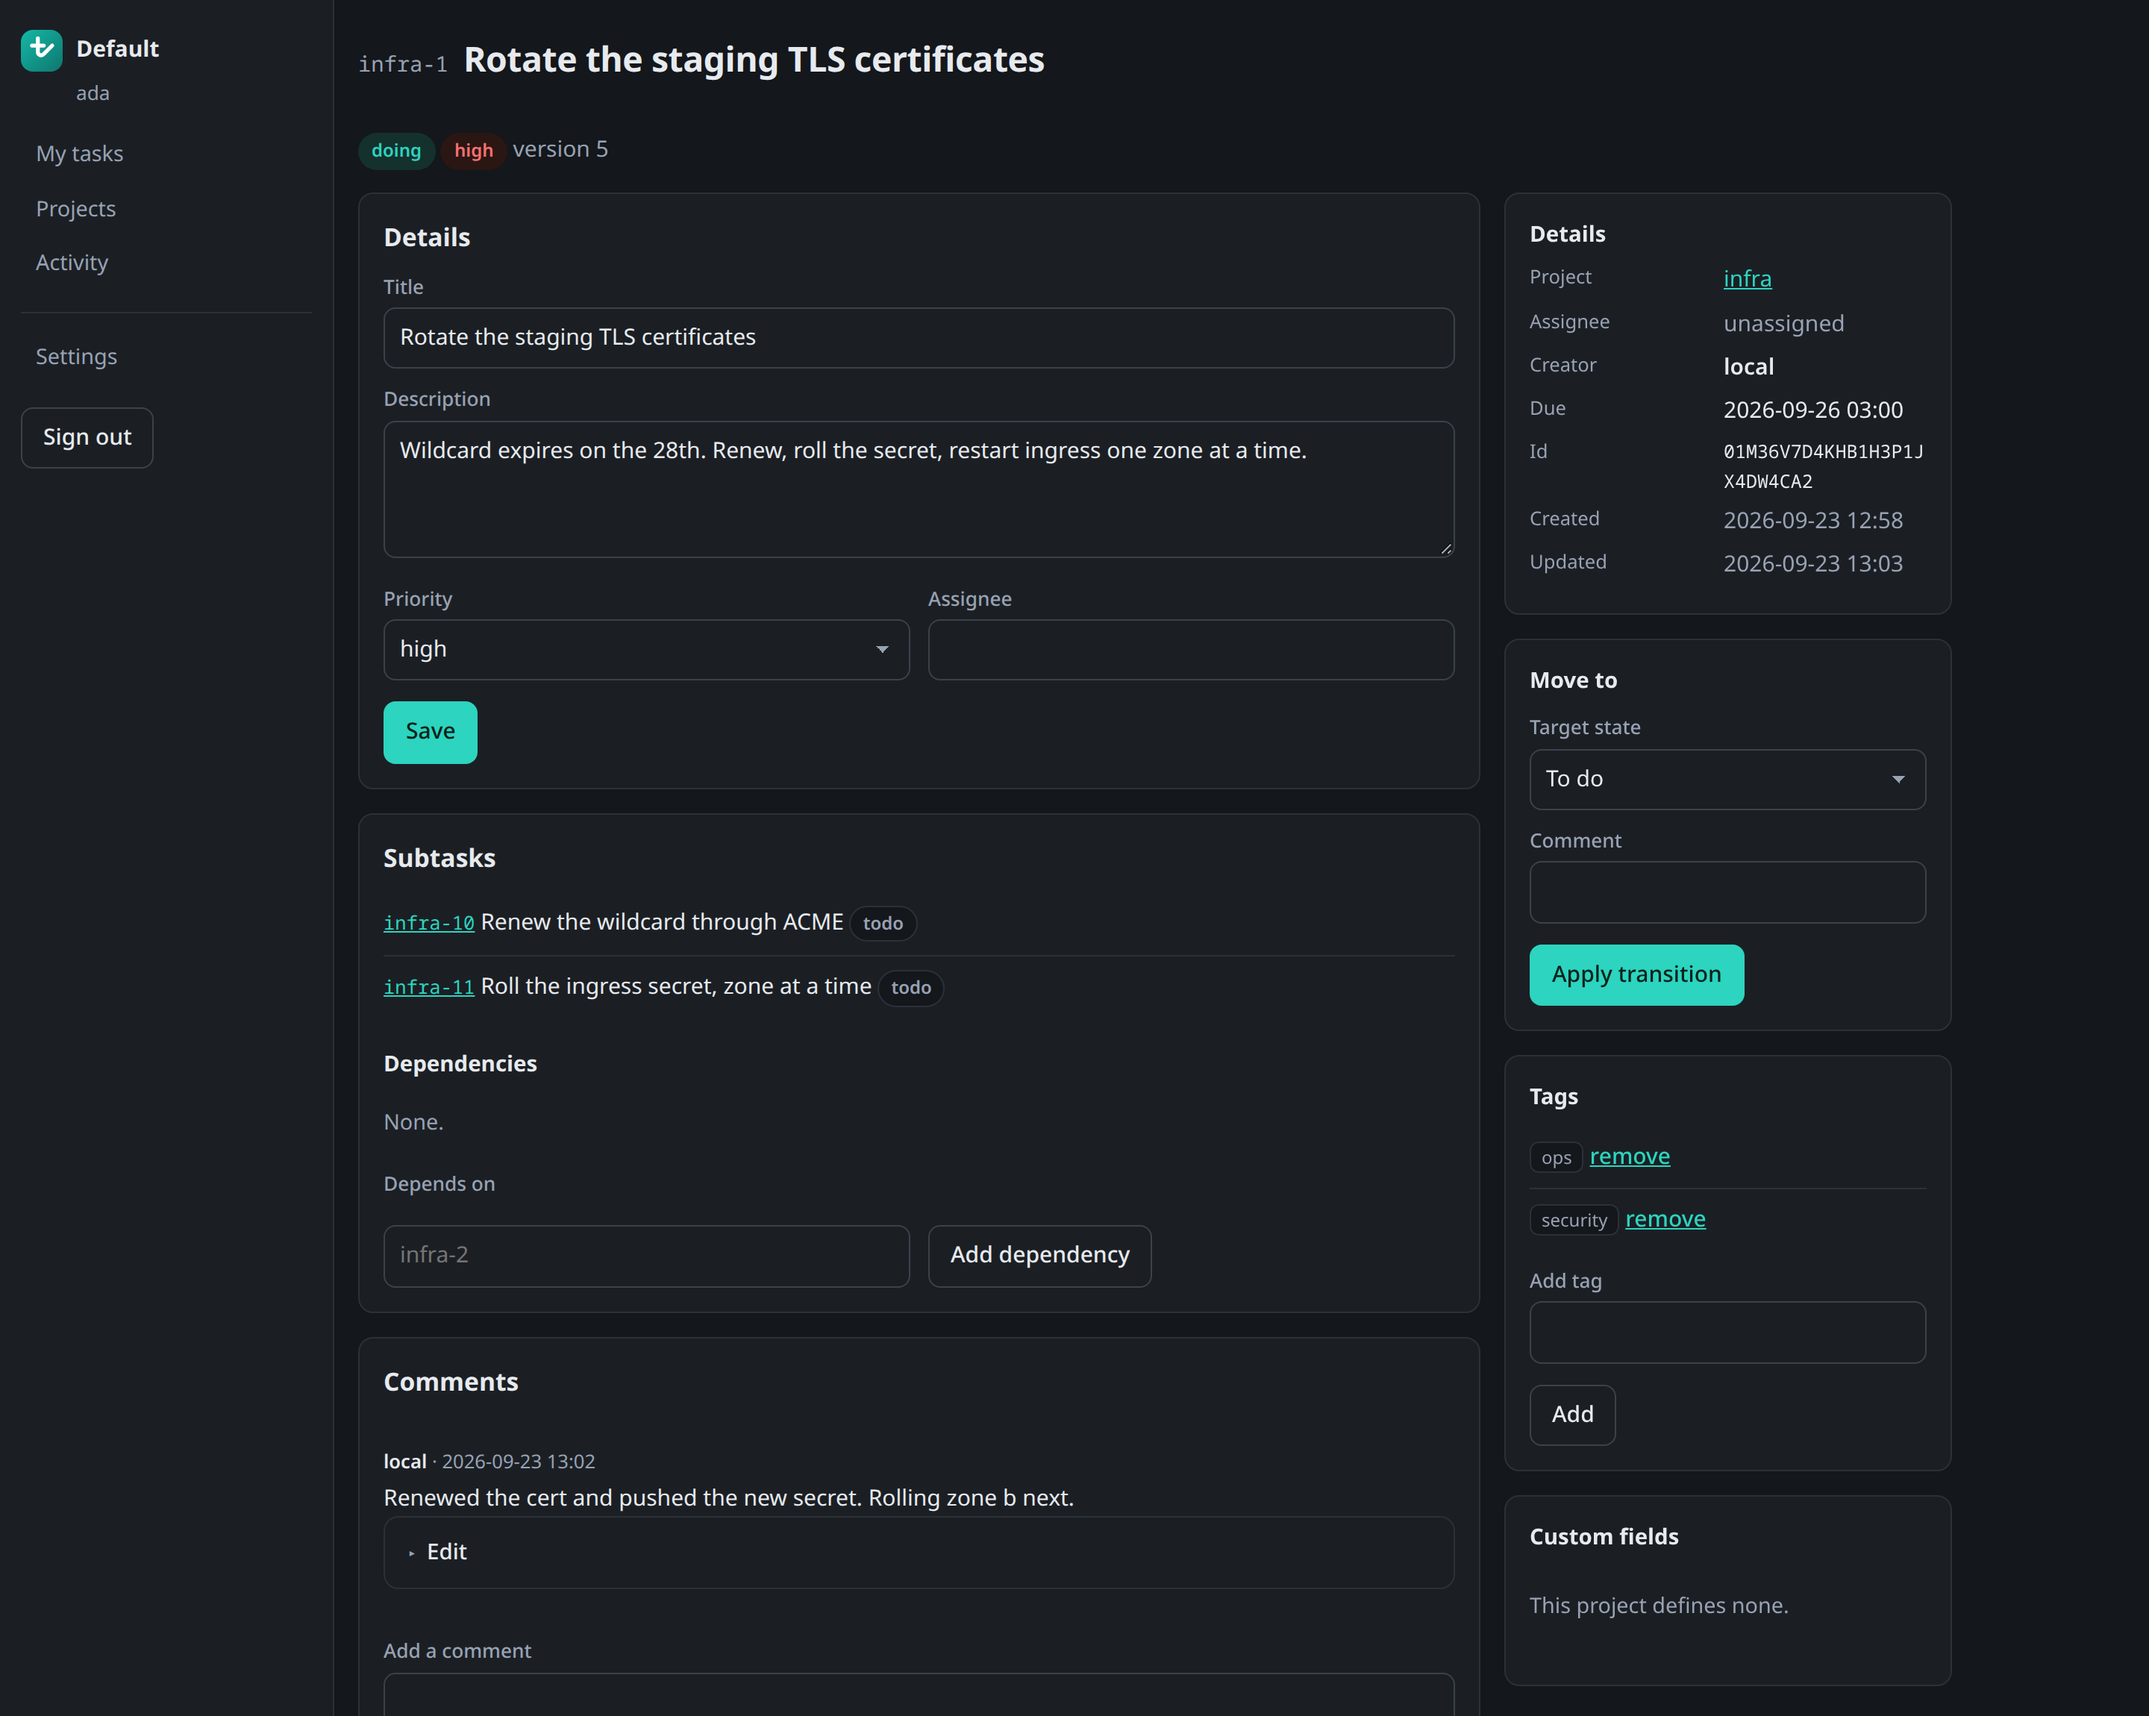
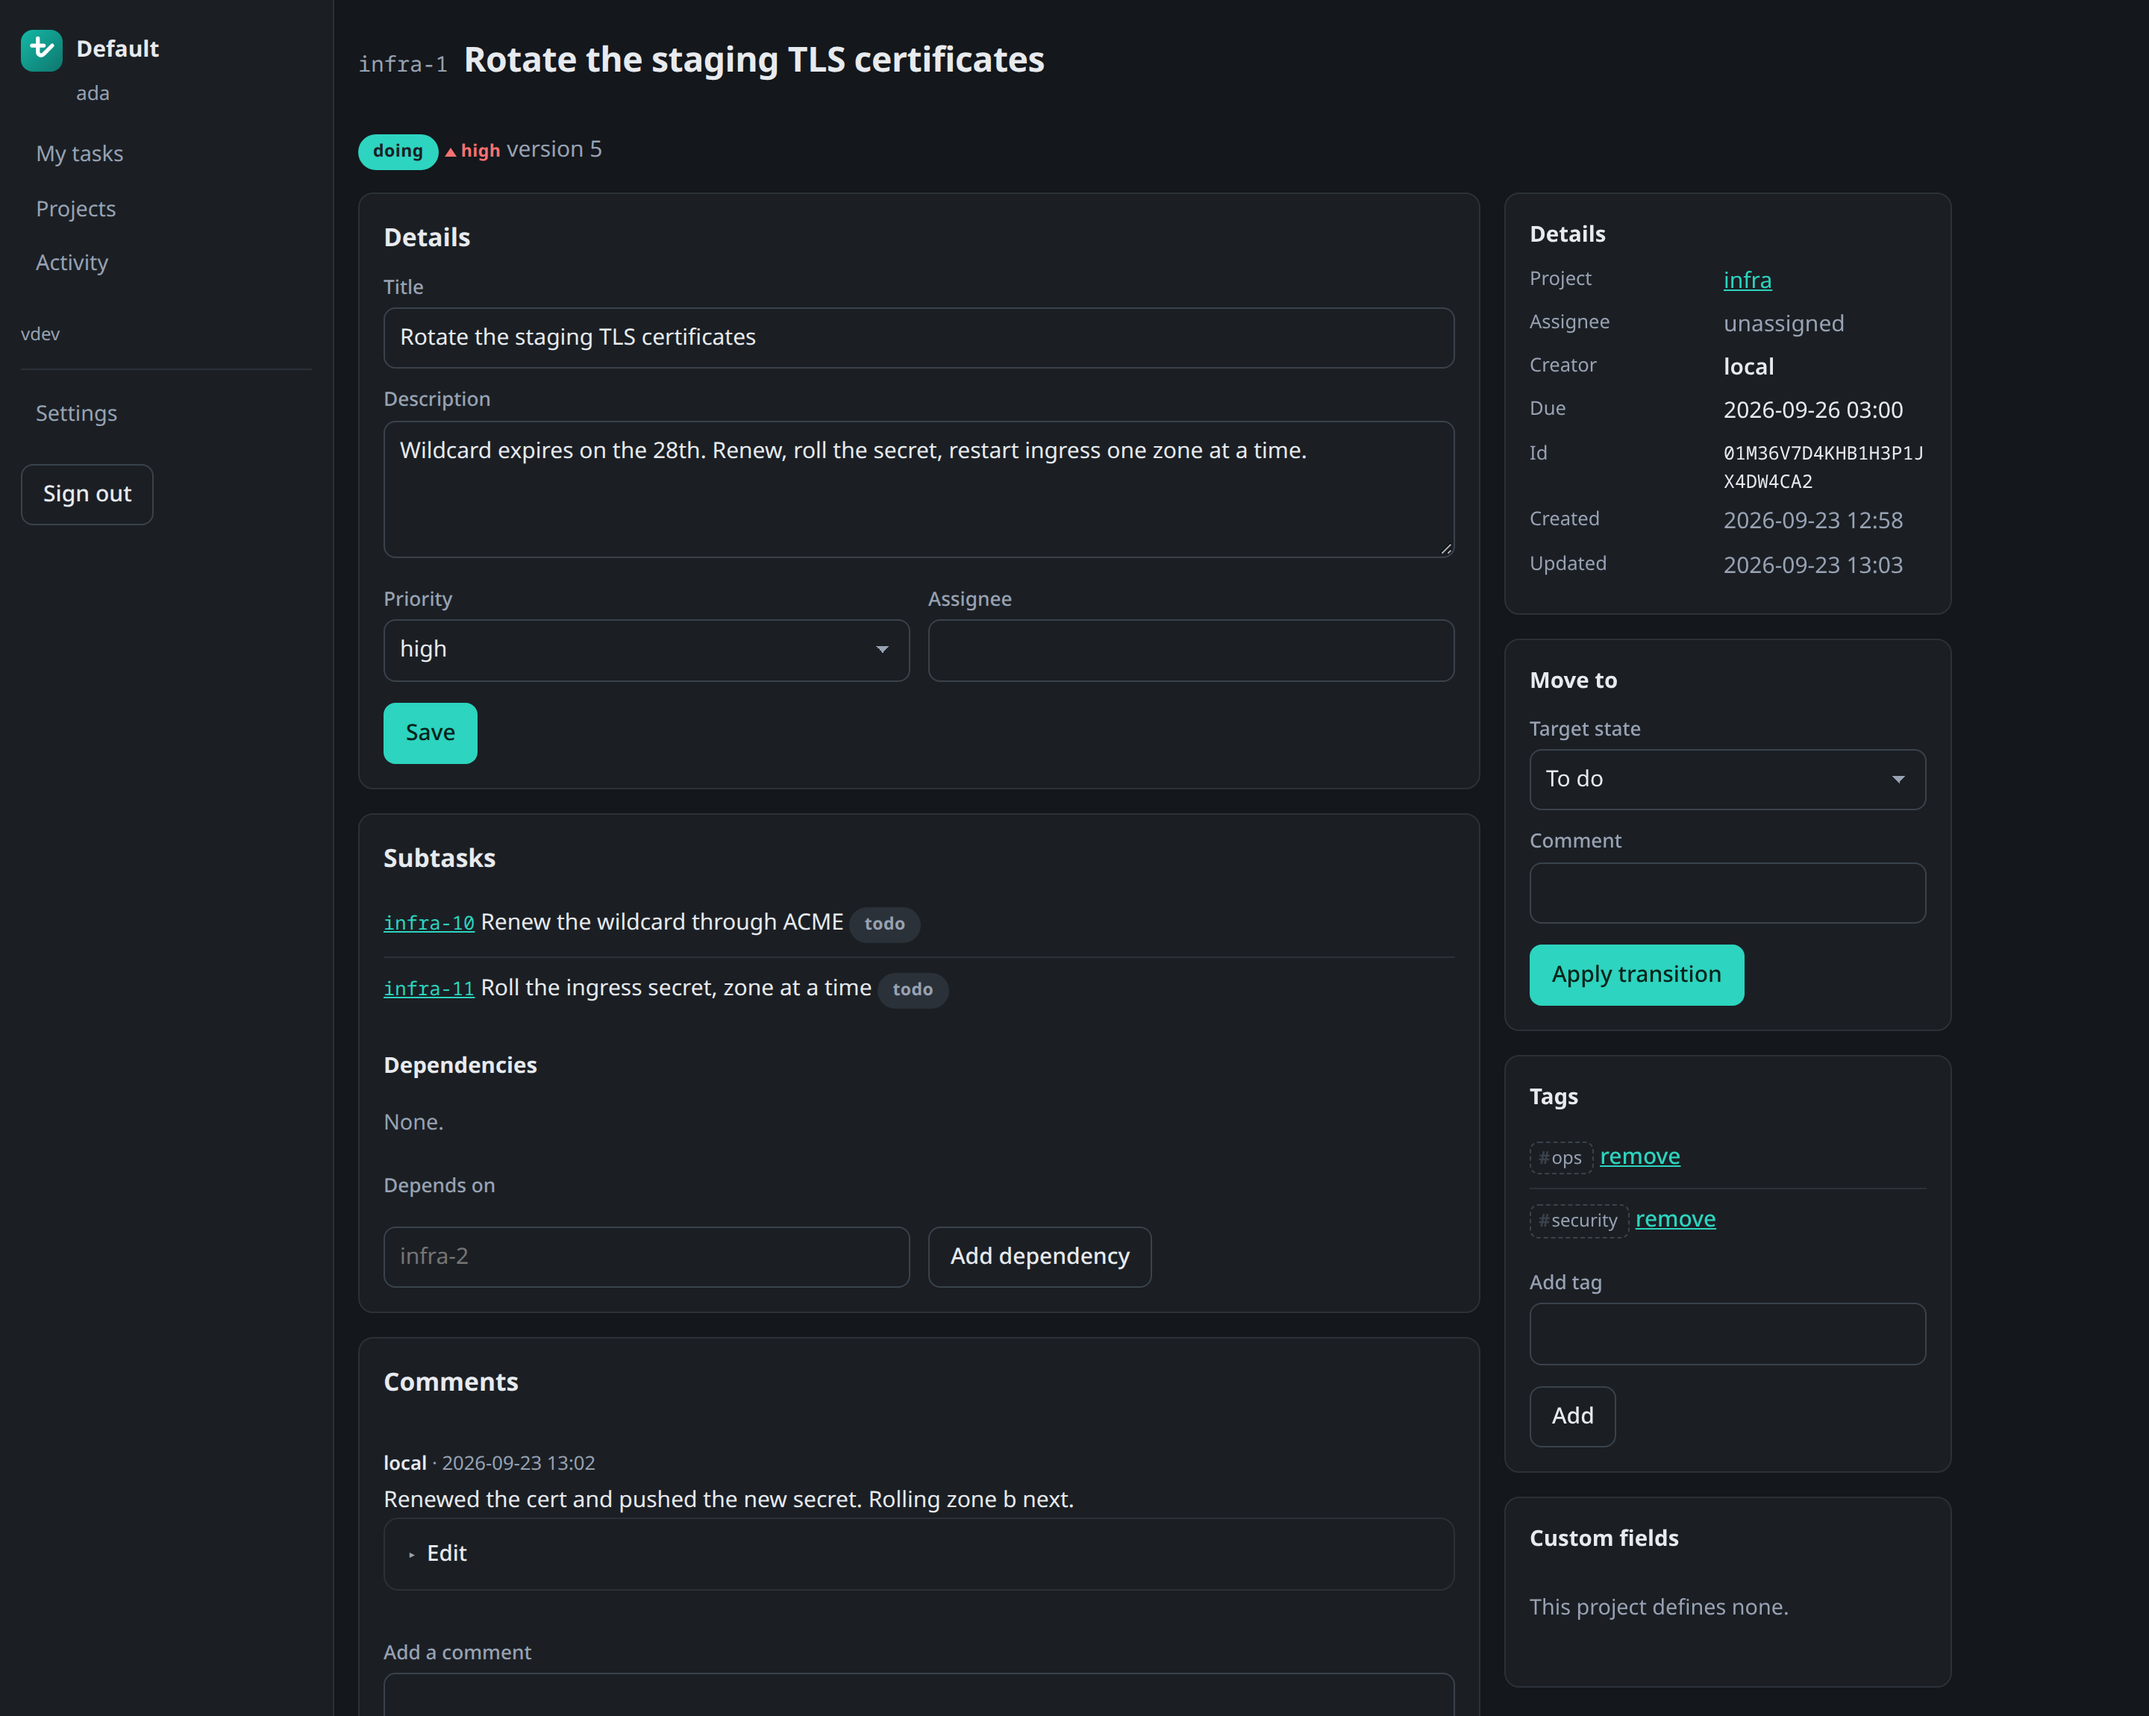
chore: pin the tools this repo builds with, and retake the browser shots
The repository pinned its gate tools, golangci-lint and actionlint and the
rest, and pinned neither Go nor just, the two things the README tells you to
run. It had been relying on whatever the machine happened to select, which is
fine until the machine selects nothing and `just build` stops working in a
checkout that looks complete.

The browser screenshots are retaken against the current interface, which has
moved: a task row now distinguishes status, priority, tags and project by
shape rather than by four chips that look the same, the listing says how many
projects it spans, and the navigation carries the running version.

web-tenant-shape.png is new, for the diagram of what sits under a tenant. The
count of zero domains in it is not an empty screenshot, it is the case the
diagram exists for: that is how somebody works out why a hostname is not
resolving.

The CLI shots are unchanged and still show an empty assignee column, because
internal/output/table.go prints the actor identifier raw and a populated
column would be five rows of ULIDs. That is a real defect, recorded here
rather than hidden by staging the screenshot around it.

diff --git a/screenshots/README.md b/screenshots/README.md
@@ -10,7 +10,8 @@ Captured against a seeded demo database on the commit that added them.
 | [tui-board.png](tui-board.png) | `tix tui`, the workflow board |
 | [web-task-list.png](web-task-list.png) | Browser task list |
 | [web-task-detail.png](web-task-detail.png) | Browser task detail |
-| [web-bundles-dark.png](web-bundles-dark.png) | Component sharing |
+| [web-bundles-dark.png](web-bundles-dark.png) | Import and export, the snapshot tab |
+| [web-tenant-shape.png](web-tenant-shape.png) | The tenant screen, showing what sits under what |
 
 The browser images use the dark scheme. The interface also offers light and a
 low contrast scheme, chosen per browser from the sidebar.
